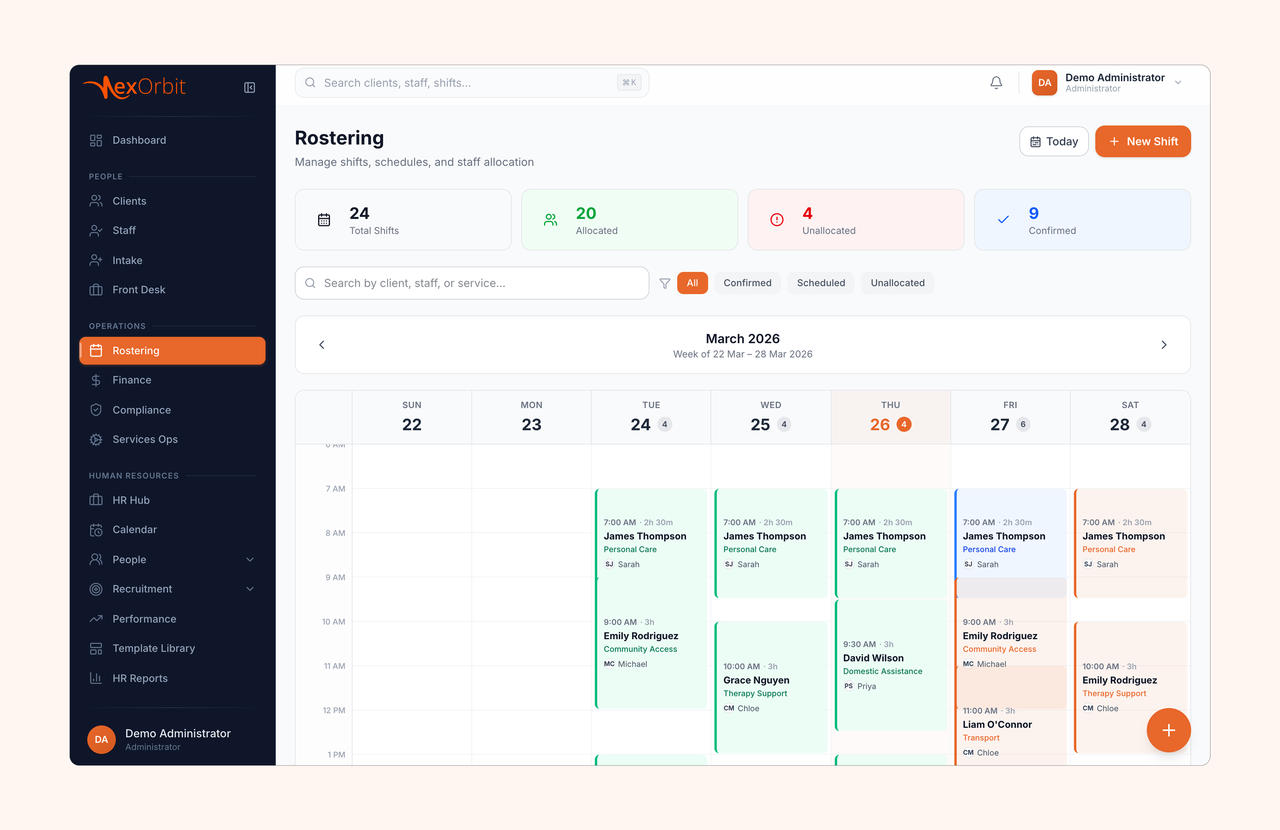
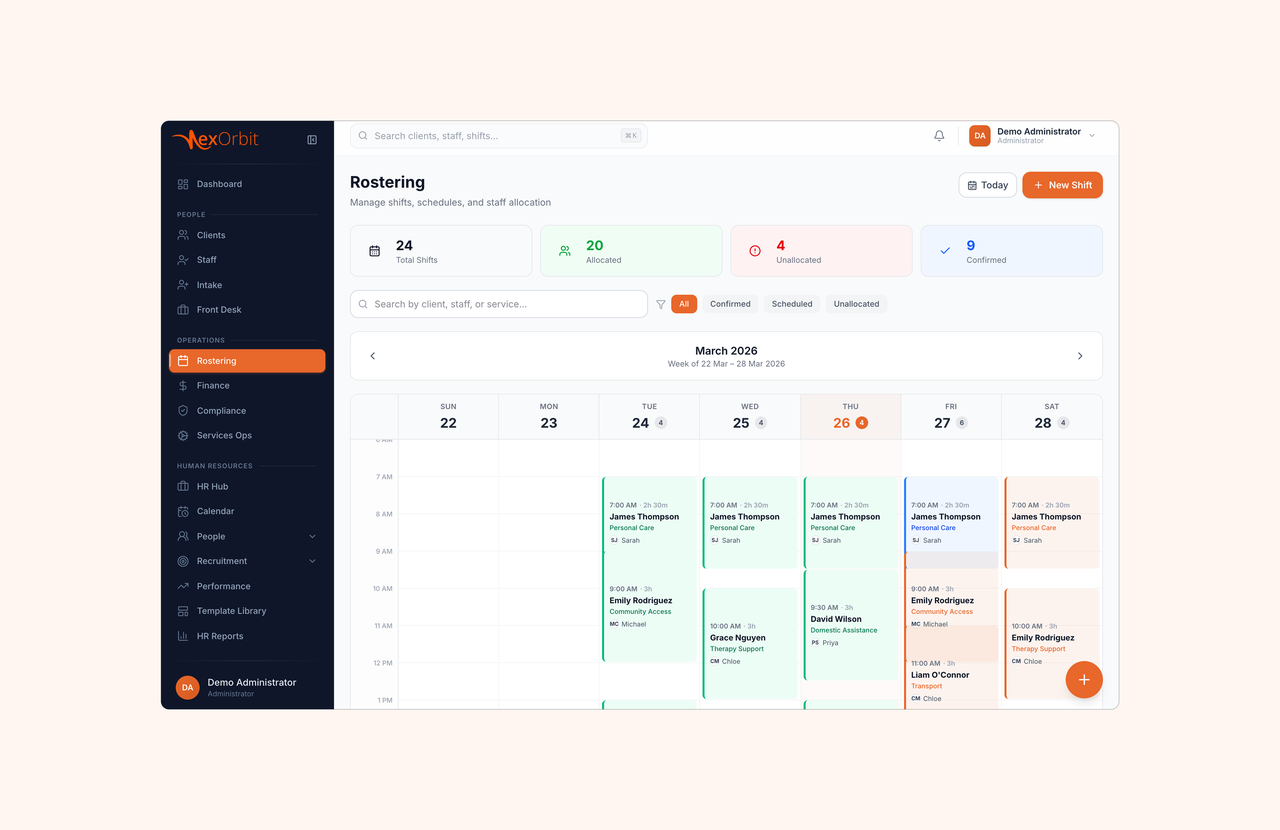
NexOrbit cover: room around the screen, so the card no longer crops the window

diff --git a/tools/render_covers.py b/tools/render_covers.py
@@ -53,6 +53,11 @@ RASTER = {'hometown': os.path.join('case studies', 'hometown', 'h1.png'),
           'orbitform': os.path.join('case studies', 'Orbitform', 'cover.png'),
           'nexorbit': os.path.join('case studies', 'nexorbit', 'nexorbit.png')}
 
+# A raw screen grab, unlike his cover artboards, carries almost no margin: NexOrbit's is 7.8% at the top, and the Work
+# card crops 9.3% off the top (the image card anchors to the bottom edge), which cut the window's own header off.
+# These are drawn smaller on their own ground first, so the whole window survives the crop with air around it.
+PAD = {'nexorbit': 0.84}
+
 
 def main():
     for name, rel in RASTER.items():
@@ -62,6 +67,12 @@ def main():
             ground = Image.new('RGBA', src.size, (255, 255, 255, 255))
             src = Image.alpha_composite(ground, src.convert('RGBA'))
         src = src.convert('RGB')
+        if name in PAD:
+            s = PAD[name]
+            board = Image.new('RGB', src.size, src.getpixel((4, 4)))   # his own ground colour, read from a corner
+            shot = src.resize((round(src.width * s), round(src.height * s)), Image.LANCZOS)
+            board.paste(shot, ((src.width - shot.width) // 2, (src.height - shot.height) // 2))
+            src = board
         for W in WIDTHS:
             path = os.path.join(ROOT, 'public', 'covers', f'{name}-{W}.png')
             src.resize((W, round(src.height * W / src.width)), Image.LANCZOS).save(path, optimize=True)
